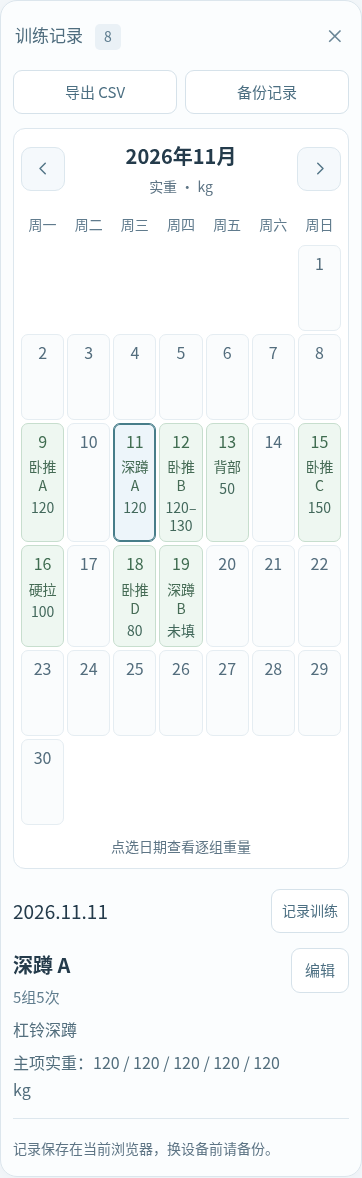
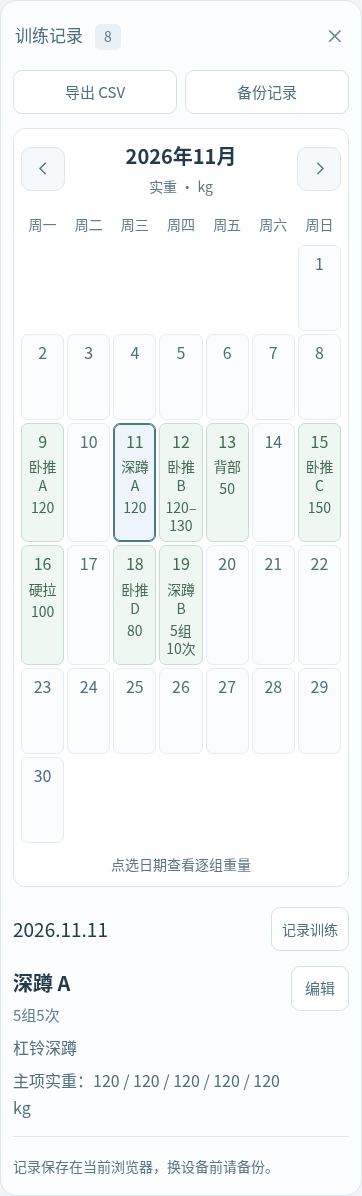
按组次记录11月19日保加利亚深蹲

diff --git a/index.html b/index.html
@@ -359,7 +359,7 @@ input:disabled,select:disabled { background: #eef4f8; color: #718b9b; }
       <div class="dialog-heading"><h2 id="workout-title">训练记录</h2><button type="button" class="icon-button" id="closeWorkout" aria-label="关闭"><svg class="icon"><use href="#i-close" /></svg></button></div>
       <article id="sessionCard"></article>
     </dialog>
[2 lines of base64/hex data omitted]
     <script>
 /* 固定训练模板。参考重量不参与实际训练记录的计算。 */
 (function (root) {
@@ -405,6 +405,7 @@ input:disabled,select:disabled { background: #eef4f8; color: #718b9b; }
   function actualWeightSummary(record) {
     if (record.snapshot?.equalExercises) return recordedExercises(record.snapshot).map((exercise, i) => `${exercise.name} ${actualWeightSummary({ setWeights: i ? record.additionalWeights?.[exercise.id] : record.setWeights, snapshot: { main: exercise } })}`).join("；");
     const weights = record.setWeights || [], main = record.snapshot?.main || template(record.templateId)?.main;
+    if (main?.showWeight === false) return dose(main);
     if (weights.some(x => Number.isFinite(x))) {
       const complete = weights.every(x => Number.isFinite(x));
       const load = complete && new Set(weights).size === 1 ? weights[0] : weights.map(x => Number.isFinite(x) ? x : "—").join(" / ");
@@ -515,16 +516,22 @@ input:disabled,select:disabled { background: #eef4f8; color: #718b9b; }
     state.confirmedBenchDNov18 = true;
     persist();
   }
-  if (!state.confirmedSquatBNov19) {
+  if (!state.squatBNov19DoseConfirmed) {
     const date = "2026-11-19", templateId = "squat-b";
-    if (!state.records.some(record => record.date === date && record.templateId === templateId)) {
-      const snapshot = clone(P.template(templateId));
-      state.records.push({
-        id: "confirmed-2026-11-19-squat-b", date, templateId, result: "done",
-        setWeights: Array(snapshot.main.sets).fill(null), notes: "", triceps: "", snapshot,
-      });
+    const existing = state.records.find(record => record.date === date && record.templateId === templateId);
+    const snapshot = clone(existing?.snapshot || P.template(templateId));
+    snapshot.main = { name: "保加利亚深蹲", sets: 5, reps: "10", showWeight: false };
+    const record = {
+      id: "confirmed-2026-11-19-squat-b", notes: "", triceps: "", ...existing,
+      date, templateId, result: "done", setWeights: Array(snapshot.main.sets).fill(null), snapshot,
+    };
+    delete record.legacyWeight;
+    state.records = P.upsertRecord(state.records, record);
+    if (state.draft?.date === date && state.draft.templateId === templateId) {
+      state.draft = { ...state.draft, result: record.result, setWeights: [...record.setWeights], snapshot: clone(snapshot) };
+      delete state.draft.legacyWeight;
     }
-    state.confirmedSquatBNov19 = true;
+    state.squatBNov19DoseConfirmed = true;
     persist();
   }
   if (state !== saved) persist();
@@ -533,6 +540,8 @@ input:disabled,select:disabled { background: #eef4f8; color: #718b9b; }
   const weightText = record => record.setWeights?.some(x => x !== null) ? `${record.setWeights.map(x => x === null ? "—" : x).join(" / ")} kg` : Number.isFinite(record.legacyWeight) ? `旧记录 ${record.legacyWeight} kg` : "";
   const dateText = date => P.validDate(date) ? date.replaceAll("-", ".") : "日期未记";
   function compactWeightText(record) {
+    const main = (record.snapshot || P.template(record.templateId))?.main;
+    if (main?.showWeight === false) return P.dose(main);
     const weights = [record.setWeights || [], ...Object.values(record.additionalWeights || {})].flat().filter(Number.isFinite);
     if (!weights.length) return Number.isFinite(record.legacyWeight) ? String(record.legacyWeight) : "未填";
     const low = Math.min(...weights), high = Math.max(...weights);
@@ -561,7 +570,8 @@ input:disabled,select:disabled { background: #eef4f8; color: #718b9b; }
     const t = record.snapshot || P.template(record.templateId), weight = weightText(record);
     if (t?.equalExercises) return `<div class="history-row"><div><strong>${esc(t.title)}</strong>${P.recordedExercises(t).map((a, i) => `<p class="history-main-lift">${esc(a.name)}</p><p class="history-weights">${esc(P.actualWeightSummary({ snapshot: { main: a }, setWeights: i ? record.additionalWeights?.[a.id] : record.setWeights }))}</p>`).join("")}${record.notes ? `<p>${esc(record.notes)}</p>` : ""}</div><button type="button" class="edit-record" data-record="${esc(record.id)}">编辑</button></div>`;
     const result = record.result === "paused" ? "暂停" : record.result === "incomplete" ? "未完成" : "";
-    return `<div class="history-row"><div><strong>${esc(t?.title || "训练")}${t?.main ? `<span class="history-dose">${P.dose(t.main)}</span>` : ""}</strong>${t?.main ? `<p class="history-main-lift">${esc(t.main.name)}</p>` : ""}<p class="history-weights">主项实重：${esc(weight || "未填写")}</p>${result || record.notes ? `<p>${esc([result, record.notes].filter(Boolean).join(" · "))}</p>` : ""}</div><button type="button" class="edit-record" data-record="${esc(record.id)}" aria-label="编辑${dateText(record.date)}${esc(t?.title)}">编辑</button></div>`;
+    const weightLine = t?.main?.showWeight === false ? "" : `<p class="history-weights">主项实重：${esc(weight || "未填写")}</p>`;
+    return `<div class="history-row"><div><strong>${esc(t?.title || "训练")}${t?.main ? `<span class="history-dose">${P.dose(t.main)}</span>` : ""}</strong>${t?.main ? `<p class="history-main-lift">${esc(t.main.name)}</p>` : ""}${weightLine}${result || record.notes ? `<p>${esc([result, record.notes].filter(Boolean).join(" · "))}</p>` : ""}</div><button type="button" class="edit-record" data-record="${esc(record.id)}" aria-label="编辑${dateText(record.date)}${esc(t?.title)}">编辑</button></div>`;
   }
   function renderLegacy() {
     const groups = OLD_KEYS.map(key => ({ key, data: read(key) })).filter(x => x.data && x.data.version !== 16);
@@ -602,7 +612,16 @@ input:disabled,select:disabled { background: #eef4f8; color: #718b9b; }
     $("#sessionCard").innerHTML = `<form id="logForm">
       <div class="record-fields"><label>日期<input name="date" type="date" value="${esc(draft.date)}" max="${P.today()}" required /></label><label>模板<select name="templateId" required><option value="" disabled ${!t ? "selected" : ""}>选择模板</option>${P.templates().map(x => `<option value="${x.id}" ${x.id === t?.id ? "selected" : ""}>${x.title}</option>`).join("")}</select></label></div>
       ${t?.equipmentNote ? `<p class="equipment-note">${esc(t.equipmentNote)}</p>` : ""}
-      ${P.recordedExercises(t).map((exercise, index) => { const prefix = index ? `extra-${exercise.id}` : "weight", weights = index ? draft.additionalWeights?.[exercise.id] : draft.setWeights; return `<div class="record-main"><div><strong>${exercise.name}</strong></div><small>模板：${P.prescription(exercise)}</small></div><fieldset class="set-log"><legend>逐组实重 <span>kg · 选填</span></legend><button type="button" class="copy-weight" ${index ? "" : 'id="copyWeight"'} data-copy="${index ? exercise.id : "main"}">同首组</button><div class="weight-grid" style="--set-count:${Math.min(exercise.sets, 5)}">${Array.from({ length: exercise.sets }, (_, i) => `<label>第${i + 1}组<input name="${prefix}-${i}" type="number" min="0" max="500" step="any" inputmode="decimal" placeholder="—" value="${esc(weights?.[i] ?? "")}" /></label>`).join("")}</div></fieldset>`; }).join("")}
+      ${P.recordedExercises(t).map((exercise, index) => {
+        const showWeight = exercise.showWeight !== false;
+        const prefix = index ? `extra-${exercise.id}` : "weight";
+        const weights = index ? draft.additionalWeights?.[exercise.id] : draft.setWeights;
+        const fields = showWeight ? `<fieldset class="set-log"><legend>逐组实重 <span>kg · 选填</span></legend>
+          <button type="button" class="copy-weight" ${index ? "" : 'id="copyWeight"'} data-copy="${index ? exercise.id : "main"}">同首组</button>
+          <div class="weight-grid" style="--set-count:${Math.min(exercise.sets, 5)}">${Array.from({ length: exercise.sets }, (_, i) => `<label>第${i + 1}组<input name="${prefix}-${i}" type="number" min="0" max="500" step="any" inputmode="decimal" placeholder="—" value="${esc(weights?.[i] ?? "")}" /></label>`).join("")}</div>
+        </fieldset>` : "";
+        return `<div class="record-main"><div><strong>${esc(exercise.name)}</strong></div><small>${showWeight ? "模板：" : ""}${esc(P.prescription(exercise))}</small></div>${fields}`;
+      }).join("")}
       ${t && t.type !== "rest" ? `<details class="record-extra"><summary>补充记录</summary><div class="record-fields"><label>完成情况<select name="result">${[["done", "完成"], ["incomplete", "未完成"], ["paused", "暂停"]].map(([value, label]) => `<option value="${value}" ${draft.result === value ? "selected" : ""}>${label}</option>`).join("")}</select></label><label class="full-field">备注<input name="notes" type="text" maxlength="300" placeholder="动作感受、辅助重量等" value="${esc(draft.notes)}" /></label></div></details>` : ""}
       <div class="record-actions"><button type="submit" class="primary-button">保存记录</button></div><p class="form-message" id="recordStatus" role="status"></p>
     </form>`;

diff --git a/项目资料/src/app.js b/项目资料/src/app.js
@@ -39,16 +39,22 @@
     state.confirmedBenchDNov18 = true;
     persist();
   }
-  if (!state.confirmedSquatBNov19) {
+  if (!state.squatBNov19DoseConfirmed) {
     const date = "2026-11-19", templateId = "squat-b";
-    if (!state.records.some(record => record.date === date && record.templateId === templateId)) {
-      const snapshot = clone(P.template(templateId));
-      state.records.push({
-        id: "confirmed-2026-11-19-squat-b", date, templateId, result: "done",
-        setWeights: Array(snapshot.main.sets).fill(null), notes: "", triceps: "", snapshot,
-      });
+    const existing = state.records.find(record => record.date === date && record.templateId === templateId);
+    const snapshot = clone(existing?.snapshot || P.template(templateId));
+    snapshot.main = { name: "保加利亚深蹲", sets: 5, reps: "10", showWeight: false };
+    const record = {
+      id: "confirmed-2026-11-19-squat-b", notes: "", triceps: "", ...existing,
+      date, templateId, result: "done", setWeights: Array(snapshot.main.sets).fill(null), snapshot,
+    };
+    delete record.legacyWeight;
+    state.records = P.upsertRecord(state.records, record);
+    if (state.draft?.date === date && state.draft.templateId === templateId) {
+      state.draft = { ...state.draft, result: record.result, setWeights: [...record.setWeights], snapshot: clone(snapshot) };
+      delete state.draft.legacyWeight;
     }
-    state.confirmedSquatBNov19 = true;
+    state.squatBNov19DoseConfirmed = true;
     persist();
   }
   if (state !== saved) persist();
@@ -57,6 +63,8 @@
   const weightText = record => record.setWeights?.some(x => x !== null) ? `${record.setWeights.map(x => x === null ? "—" : x).join(" / ")} kg` : Number.isFinite(record.legacyWeight) ? `旧记录 ${record.legacyWeight} kg` : "";
   const dateText = date => P.validDate(date) ? date.replaceAll("-", ".") : "日期未记";
   function compactWeightText(record) {
+    const main = (record.snapshot || P.template(record.templateId))?.main;
+    if (main?.showWeight === false) return P.dose(main);
     const weights = [record.setWeights || [], ...Object.values(record.additionalWeights || {})].flat().filter(Number.isFinite);
     if (!weights.length) return Number.isFinite(record.legacyWeight) ? String(record.legacyWeight) : "未填";
     const low = Math.min(...weights), high = Math.max(...weights);
@@ -85,7 +93,8 @@
     const t = record.snapshot || P.template(record.templateId), weight = weightText(record);
     if (t?.equalExercises) return `<div class="history-row"><div><strong>${esc(t.title)}</strong>${P.recordedExercises(t).map((a, i) => `<p class="history-main-lift">${esc(a.name)}</p><p class="history-weights">${esc(P.actualWeightSummary({ snapshot: { main: a }, setWeights: i ? record.additionalWeights?.[a.id] : record.setWeights }))}</p>`).join("")}${record.notes ? `<p>${esc(record.notes)}</p>` : ""}</div><button type="button" class="edit-record" data-record="${esc(record.id)}">编辑</button></div>`;
     const result = record.result === "paused" ? "暂停" : record.result === "incomplete" ? "未完成" : "";
-    return `<div class="history-row"><div><strong>${esc(t?.title || "训练")}${t?.main ? `<span class="history-dose">${P.dose(t.main)}</span>` : ""}</strong>${t?.main ? `<p class="history-main-lift">${esc(t.main.name)}</p>` : ""}<p class="history-weights">主项实重：${esc(weight || "未填写")}</p>${result || record.notes ? `<p>${esc([result, record.notes].filter(Boolean).join(" · "))}</p>` : ""}</div><button type="button" class="edit-record" data-record="${esc(record.id)}" aria-label="编辑${dateText(record.date)}${esc(t?.title)}">编辑</button></div>`;
+    const weightLine = t?.main?.showWeight === false ? "" : `<p class="history-weights">主项实重：${esc(weight || "未填写")}</p>`;
+    return `<div class="history-row"><div><strong>${esc(t?.title || "训练")}${t?.main ? `<span class="history-dose">${P.dose(t.main)}</span>` : ""}</strong>${t?.main ? `<p class="history-main-lift">${esc(t.main.name)}</p>` : ""}${weightLine}${result || record.notes ? `<p>${esc([result, record.notes].filter(Boolean).join(" · "))}</p>` : ""}</div><button type="button" class="edit-record" data-record="${esc(record.id)}" aria-label="编辑${dateText(record.date)}${esc(t?.title)}">编辑</button></div>`;
   }
   function renderLegacy() {
     const groups = OLD_KEYS.map(key => ({ key, data: read(key) })).filter(x => x.data && x.data.version !== 16);
@@ -126,7 +135,16 @@
     $("#sessionCard").innerHTML = `<form id="logForm">
       <div class="record-fields"><label>日期<input name="date" type="date" value="${esc(draft.date)}" max="${P.today()}" required /></label><label>模板<select name="templateId" required><option value="" disabled ${!t ? "selected" : ""}>选择模板</option>${P.templates().map(x => `<option value="${x.id}" ${x.id === t?.id ? "selected" : ""}>${x.title}</option>`).join("")}</select></label></div>
       ${t?.equipmentNote ? `<p class="equipment-note">${esc(t.equipmentNote)}</p>` : ""}
-      ${P.recordedExercises(t).map((exercise, index) => { const prefix = index ? `extra-${exercise.id}` : "weight", weights = index ? draft.additionalWeights?.[exercise.id] : draft.setWeights; return `<div class="record-main"><div><strong>${exercise.name}</strong></div><small>模板：${P.prescription(exercise)}</small></div><fieldset class="set-log"><legend>逐组实重 <span>kg · 选填</span></legend><button type="button" class="copy-weight" ${index ? "" : 'id="copyWeight"'} data-copy="${index ? exercise.id : "main"}">同首组</button><div class="weight-grid" style="--set-count:${Math.min(exercise.sets, 5)}">${Array.from({ length: exercise.sets }, (_, i) => `<label>第${i + 1}组<input name="${prefix}-${i}" type="number" min="0" max="500" step="any" inputmode="decimal" placeholder="—" value="${esc(weights?.[i] ?? "")}" /></label>`).join("")}</div></fieldset>`; }).join("")}
+      ${P.recordedExercises(t).map((exercise, index) => {
+        const showWeight = exercise.showWeight !== false;
+        const prefix = index ? `extra-${exercise.id}` : "weight";
+        const weights = index ? draft.additionalWeights?.[exercise.id] : draft.setWeights;
+        const fields = showWeight ? `<fieldset class="set-log"><legend>逐组实重 <span>kg · 选填</span></legend>
+          <button type="button" class="copy-weight" ${index ? "" : 'id="copyWeight"'} data-copy="${index ? exercise.id : "main"}">同首组</button>
+          <div class="weight-grid" style="--set-count:${Math.min(exercise.sets, 5)}">${Array.from({ length: exercise.sets }, (_, i) => `<label>第${i + 1}组<input name="${prefix}-${i}" type="number" min="0" max="500" step="any" inputmode="decimal" placeholder="—" value="${esc(weights?.[i] ?? "")}" /></label>`).join("")}</div>
+        </fieldset>` : "";
+        return `<div class="record-main"><div><strong>${esc(exercise.name)}</strong></div><small>${showWeight ? "模板：" : ""}${esc(P.prescription(exercise))}</small></div>${fields}`;
+      }).join("")}
       ${t && t.type !== "rest" ? `<details class="record-extra"><summary>补充记录</summary><div class="record-fields"><label>完成情况<select name="result">${[["done", "完成"], ["incomplete", "未完成"], ["paused", "暂停"]].map(([value, label]) => `<option value="${value}" ${draft.result === value ? "selected" : ""}>${label}</option>`).join("")}</select></label><label class="full-field">备注<input name="notes" type="text" maxlength="300" placeholder="动作感受、辅助重量等" value="${esc(draft.notes)}" /></label></div></details>` : ""}
       <div class="record-actions"><button type="submit" class="primary-button">保存记录</button></div><p class="form-message" id="recordStatus" role="status"></p>
     </form>`;

diff --git a/项目资料/src/training.js b/项目资料/src/training.js
@@ -42,6 +42,7 @@
   function actualWeightSummary(record) {
     if (record.snapshot?.equalExercises) return recordedExercises(record.snapshot).map((exercise, i) => `${exercise.name} ${actualWeightSummary({ setWeights: i ? record.additionalWeights?.[exercise.id] : record.setWeights, snapshot: { main: exercise } })}`).join("；");
     const weights = record.setWeights || [], main = record.snapshot?.main || template(record.templateId)?.main;
+    if (main?.showWeight === false) return dose(main);
     if (weights.some(x => Number.isFinite(x))) {
       const complete = weights.every(x => Number.isFinite(x));
       const load = complete && new Set(weights).size === 1 ? weights[0] : weights.map(x => Number.isFinite(x) ? x : "—").join(" / ");

diff --git a/README.md b/README.md
@@ -2,7 +2,7 @@
 
 固定训练模板与个人日志。8种模板不绑定日期；训练时选择日期和模板，各组实重独立填写，可重复记录和编辑。记录展开为月历，每天直接显示主项实重，没训练的日期留空。
 
-已记入2026年11月9日卧推A、11日深蹲A、12日卧推B、13日背部、15日卧推C、16日硬拉、18日卧推D和19日深蹲B。15日卧推C按计划五组均为150 kg；16日硬拉五组100 kg，18日卧推D五组8次均为80 kg。19日深蹲B实重留空。11日深蹲A五组均为120 kg；12日卧推B五组为120、125、125、130、130 kg。所有模板重量均为参考。
+已记入2026年11月9日卧推A、11日深蹲A、12日卧推B、13日背部、15日卧推C、16日硬拉、18日卧推D和19日深蹲B。15日卧推C按计划五组均为150 kg；16日硬拉五组100 kg，18日卧推D五组8次均为80 kg。19日深蹲B记为保加利亚深蹲5组10次。11日深蹲A五组均为120 kg；12日卧推B五组为120、125、125、130、130 kg。所有模板重量均为参考。
 
 双击[index.html](index.html)可离线使用；[健身计划.zip](健身计划.zip)可分享。[完整模板预览](项目资料/示例/完整计划表.png)。记录保存在当前浏览器，可导出CSV和JSON；旧版数据保留。
 

diff --git a/项目资料/docs/使用说明.md b/项目资料/docs/使用说明.md
@@ -29,4 +29,4 @@
 
 2026年11月13日背部：高位下拉、器械划船均为5组10次50kg。背部两个动作分别记录逐组实重，日历、明细及导出均保留两个动作。
 
-2026年11月15日卧推C按计划完成5组3次150kg；11月16日硬拉五组均记100kg。11月18日卧推D为5组8次，五组均为80kg。11月19日已记深蹲B，实重留空。首次更新时仅补入缺失记录，不覆盖已有同日同模板记录。电脑上卧推一排，深蹲A、深蹲B、硬拉、引体依次排在另一排。平板双列，手机单列；手机所有动作完整展示，无需横向滑动。记录弹窗中五组重量同排输入，可用“同首组”快速填写。
+2026年11月15日卧推C按计划完成5组3次150kg；11月16日硬拉五组均记100kg。11月18日卧推D为5组8次，五组均为80kg。11月19日深蹲B记为保加利亚深蹲5组10次。首次更新时仅补入缺失记录，不覆盖已有同日同模板记录。电脑上卧推一排，深蹲A、深蹲B、硬拉、引体依次排在另一排。平板双列，手机单列；手机所有动作完整展示，无需横向滑动。记录弹窗中五组重量同排输入，可用“同首组”快速填写。
